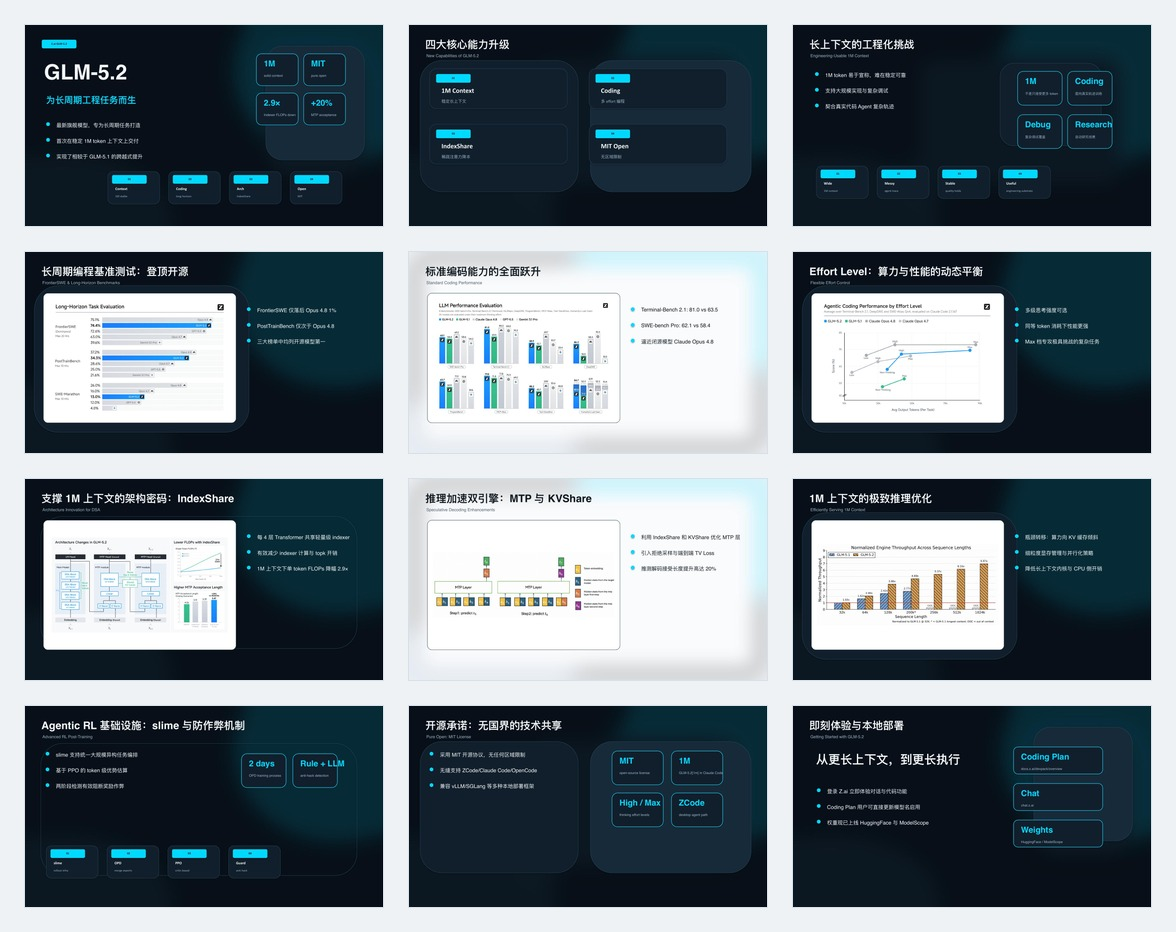
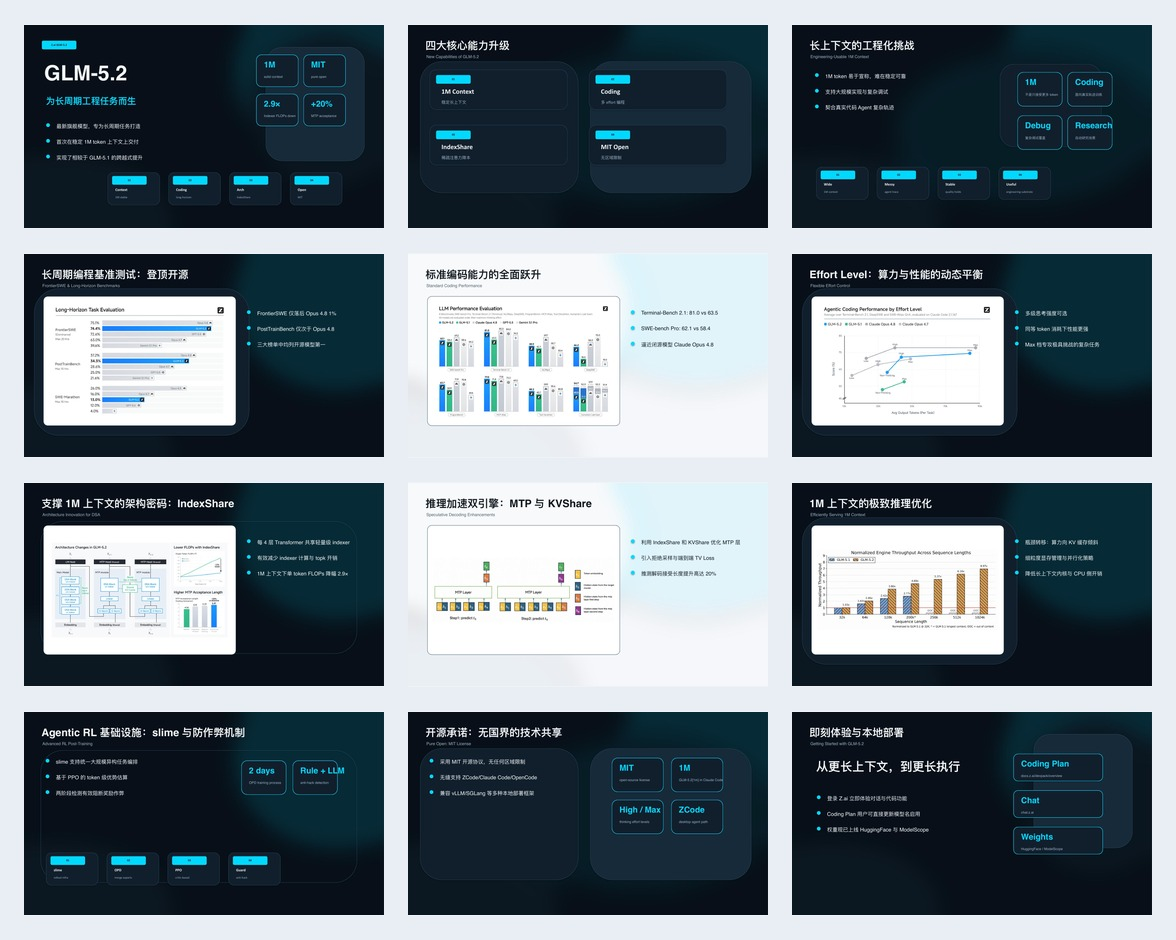
Keep generated backgrounds atmosphere-only

diff --git a/scripts/background_prompt_pack.py b/scripts/background_prompt_pack.py
@@ -1,5 +1,5 @@
 #!/usr/bin/env python3
-"""Create a 3-5 item background-image prompt pack for qiaomu-ppt decks."""
+"""Create a 3-5 item atmosphere-only background prompt pack."""
 
 from __future__ import annotations
 
@@ -10,11 +10,42 @@ from pathlib import Path
 
 
 ROLES = [
-    ("cover", "quiet opening background with a strong but calm focal depth"),
-    ("evidence_dark", "dark evidence background with a calm chart-safe area"),
-    ("evidence_light", "light paper-like evidence background with generous white space"),
-    ("diagram", "neutral diagram background with depth but no grid or decorative lines"),
-    ("closing", "quiet closing background with subtle momentum and no extra objects"),
+    ("cover_atmosphere", "quiet opening atmosphere with soft depth and no layout objects"),
+    ("dark_gradient", "dark atmospheric color wash for evidence slides"),
+    ("light_gradient", "light paper-like color wash for dense readable slides"),
+    ("abstract_texture", "neutral abstract texture with subtle material depth"),
+    ("closing_atmosphere", "quiet closing atmosphere with subtle momentum"),
+]
+
+NEGATIVE_CONSTRAINTS = [
+    "text",
+    "letters",
+    "numbers",
+    "logo",
+    "icon",
+    "UI chrome",
+    "button",
+    "chart",
+    "table",
+    "diagram",
+    "screenshot",
+    "mockup",
+    "box",
+    "rectangle",
+    "square",
+    "card",
+    "panel",
+    "frame",
+    "window",
+    "container",
+    "placeholder",
+    "layout scaffolding",
+    "image slot",
+    "content block",
+    "decorative linework",
+    "ornamental grid",
+    "neon rail",
+    "multiple accent colors",
 ]
 
 
@@ -22,10 +53,12 @@ def build_prompt(subject: str, route: str, role: str, role_goal: str, accent: st
     return (
         f"Create a quiet 16:9 presentation background for a {route} deck about {subject}. "
         f"Role: {role} - {role_goal}. "
-        f"Use a neutral base, readable quiet space for slide content, and one restrained {accent} accent only. "
-        "No text, no logos, no icons, no UI controls, no charts, no fake screenshots, no decorative stripes, "
-        "no ornamental grids, no thin tech lines, no neon rails. "
-        "The background must support foreground typography and source images without competing."
+        f"Use only atmosphere: color fields, soft gradients, diffuse glow, subtle grain, and restrained abstract decoration. "
+        f"Use a neutral base and one restrained {accent} accent only. "
+        "Do not create slide structure. No boxes, rectangles, cards, panels, frames, windows, placeholders, "
+        "chart areas, image slots, UI containers, text blocks, labels, diagrams, mockups, screenshots, logos, or icons. "
+        "Foreground titles, cards, charts, frames, and all page elements will be added later as editable objects. "
+        "The background must stay behind the layout and never imply a non-editable content container."
     )
 
 
@@ -39,14 +72,7 @@ def create_pack(subject: str, route: str, accent: str, count: int) -> dict:
                 "size": "16:9",
                 "recommended_pixels": "1920x1080",
                 "prompt": build_prompt(subject, route, role, role_goal, accent),
-                "negative_constraints": [
-                    "text",
-                    "logo",
-                    "UI chrome",
-                    "chart",
-                    "decorative linework",
-                    "multiple accent colors",
-                ],
+                "negative_constraints": NEGATIVE_CONSTRAINTS,
             }
         )
     return {
@@ -61,8 +87,8 @@ def create_pack(subject: str, route: str, accent: str, count: int) -> dict:
             "accent": accent,
         },
         "prompts": prompts,
-        "use_policy": "Generate these with Codex image generation when available; save outputs under assets/backgrounds/ and record paths in visual_contract.json.",
-        "fallback_policy": "If image generation is unavailable, use neutral solid surfaces only; do not replace with decorative lines or grids.",
+        "use_policy": "Generate these with Codex image generation when available; save outputs under assets/backgrounds/ and record paths in visual_contract.json. These images are atmosphere-only; all slide elements remain editable foreground objects.",
+        "fallback_policy": "If image generation is unavailable, use neutral solid/gradient surfaces only; do not replace with boxes, panels, decorative lines, grids, or fake layout containers.",
     }
 
 

diff --git a/scripts/check_project.py b/scripts/check_project.py
@@ -45,6 +45,17 @@ VISUAL_BACKGROUND_ROLES_MIN = 4
 VISUAL_BACKGROUND_MAX_REPEAT = 2
 ALLOWED_VISUAL_NOISE_BUDGETS = {"quiet", "moderate", "expressive"}
 DEFAULT_MAX_ACTIVE_COLORS = 3
+REQUIRED_BACKGROUND_FORBIDDEN_OBJECTS = {
+    "box",
+    "card",
+    "panel",
+    "frame",
+    "placeholder",
+    "chart area",
+    "image slot",
+    "ui chrome",
+    "text block",
+}
 IMAGE_SLOT_FIELDS = [
     "slot_id",
     "slide_no",
@@ -307,6 +318,32 @@ def check_visual_contract(path: Path, slide_count: int) -> tuple[list[str], list
             failures.append(
                 "background_asset_policy.decorative_line_policy must forbid non-functional decorative lines"
             )
+        atmosphere_policy = str(background_policy.get("atmosphere_only_policy") or "").lower()
+        editable_policy = str(background_policy.get("editable_foreground_policy") or "").lower()
+        forbidden_objects = background_policy.get("forbidden_generated_objects")
+        evidence["background_atmosphere_only"] = bool(atmosphere_policy)
+        if "atmosphere" not in atmosphere_policy or "only" not in atmosphere_policy:
+            failures.append(
+                "background_asset_policy.atmosphere_only_policy must declare that generated backgrounds are atmosphere-only"
+            )
+        if "editable" not in editable_policy or "foreground" not in editable_policy:
+            failures.append(
+                "background_asset_policy.editable_foreground_policy must declare that layout objects stay editable foreground objects"
+            )
+        if not isinstance(forbidden_objects, list) or not forbidden_objects:
+            failures.append("background_asset_policy.forbidden_generated_objects must list forbidden baked-in layout objects")
+        else:
+            normalized_forbidden = {
+                str(item).strip().lower()
+                for item in forbidden_objects
+                if str(item).strip()
+            }
+            missing_forbidden = sorted(REQUIRED_BACKGROUND_FORBIDDEN_OBJECTS - normalized_forbidden)
+            if missing_forbidden:
+                failures.append(
+                    "background_asset_policy.forbidden_generated_objects missing: "
+                    + ", ".join(missing_forbidden)
+                )
 
     roles = contract.get("background_roles")
     if not isinstance(roles, list) or len(roles) < VISUAL_BACKGROUND_ROLES_MIN:

diff --git a/references/ppt-visual-failure-patterns.md b/references/ppt-visual-failure-patterns.md
@@ -96,6 +96,29 @@ Fix:
 
 ## 5. Fake Rounded Image Frame
 
+## 5. Baked-In Background Layout Objects
+
+Symptom:
+
+- Generated background images contain boxes, rectangles, card panels, frames, windows, placeholders, chart areas, or text-block zones.
+- The slide looks structured, but those structures are trapped inside a bitmap and cannot be edited in PowerPoint.
+- Foreground titles, charts, or cards have to fight a pre-baked container drawn by the background.
+
+Root cause:
+
+- The prompt asked for "chart-safe area", "card area", "dashboard background", or "evidence background" without forbidding actual UI/layout objects.
+- The generator tried to solve page composition inside the background image.
+- Background design and editable foreground layout were not separated.
+
+Fix:
+
+- Prompt backgrounds as atmosphere only: color fields, gradients, soft glow, subtle grain, abstract texture.
+- Explicitly forbid boxes, rectangles, cards, panels, frames, placeholders, chart areas, image slots, UI chrome, text blocks, diagrams, and screenshots.
+- Add cards, chart frames, labels, source images, and diagram structures later as editable PPT/HTML foreground objects.
+- Record `background_asset_policy.atmosphere_only_policy` and `editable_foreground_policy` in `visual_contract.json`.
+
+## 6. Fake Rounded Image Frame
+
 Symptom:
 
 - A rounded rectangle is drawn behind an image, but the image itself is rectangular and spills beyond the intended card.
@@ -124,7 +147,7 @@ Fix:
   - Use a native PowerPoint picture crop / placeholder route.
 - Never place a rectangular image over a rounded rectangle and call it clipped.
 
-## 6. Evidence Chart Legibility Drift
+## 7. Evidence Chart Legibility Drift
 
 Symptom:
 
@@ -139,7 +162,7 @@ Fix:
   - `chart_then_takeaway`: first slide shows full chart, next slide extracts 2-3 callouts.
 - Do not shrink a dense benchmark chart below the size where labels are readable in the rendered preview.
 
-## 7. Visible Internal Provenance Footer
+## 8. Visible Internal Provenance Footer
 
 Symptom:
 
@@ -159,13 +182,14 @@ Fix:
 - Use visible citations only when the route needs them, such as academic/report decks, and keep them content-level, not toolchain-level.
 - Never print `fetched via`, `generated with`, model/provider names, or internal speaker cues on every slide unless the user explicitly asks.
 
-## 8. Required Visual QA
+## 9. Required Visual QA
 
 Before calling a deck complete:
 
 - Render the PPTX to PDF/images or open it in PowerPoint/Keynote and screenshot thumbnails.
 - Inspect the thumbnail grid for repeated backgrounds, samey layouts, blank slides, and visual fatigue.
 - Inspect every slide for color budget drift: max three active non-image colors, one accent.
+- Inspect generated backgrounds for baked-in layout objects. Regenerate backgrounds that include boxes, panels, cards, frames, placeholders, or chart/image slots.
 - Inspect every slide for decorative linework. Remove lines that are not axes, table rules, connectors, separators, or real frames.
 - Inspect every chart/image slide for image overflow beyond the declared slot.
 - Inspect visible slide text for internal provenance or speaker-cue leakage.

diff --git a/references/visual-systems.md b/references/visual-systems.md
@@ -140,7 +140,8 @@ The default visual taste for `qiaomu-ppt` is calm, not loud. The deck should fee
 Rules:
 
 - Default `visual_noise_budget` is `quiet`.
-- Use generated bitmap backgrounds when the environment supports it; otherwise use large quiet surfaces and paper bands.
+- Use generated bitmap backgrounds when the environment supports it; otherwise use large quiet surfaces and paper bands. Generated backgrounds are atmosphere only: color, gradient, light, grain, and abstract texture.
+- Generated backgrounds must not include boxes, rectangles, panels, cards, frames, placeholders, chart areas, image slots, windows, UI chrome, or text blocks. Those are editable foreground objects.
 - Do not use ornamental grids, random thin rules, tech lines, side rails, or abstract stripes as decoration. Lines are allowed only as chart axes, table rules, connectors, or true content structure.
 - Use one accent system per slide. Do not combine neon wedges, rails, glows, multiple card stacks, and saturated dots on the same page.
 - Enforce a max-three active color budget per slide: neutral base, readable text, and one accent. Source images/charts are exempt, but surrounding UI must become quieter when a source image is colorful.
@@ -153,13 +154,24 @@ Preferred background families:
 
 | Family | Use | Treatment |
 |---|---|---|
-| `generated_cover` | cover, chapter open, closing | full-slide text-free generated bitmap, quiet focal depth |
-| `generated_evidence` | technical proof, source charts | generated bitmap with calm chart-safe area |
+| `generated_cover` | cover, chapter open, closing | full-slide text-free atmosphere bitmap, quiet focal depth |
+| `generated_evidence` | technical proof, source charts | atmosphere bitmap only; chart frames and cards stay editable foreground objects |
 | `quiet_dark` | technical proof, product narrative | near-black/navy ground, no decorative lines |
 | `quiet_light` | dense charts, courseware, reports | off-white/paper surface, no ornamental rules |
 | `editorial_band` | chapter open, argument transition | wide neutral band with one restrained accent edge |
 | `split_surface` | compare, problem/solution | calm 50/50 or 60/40 surfaces without heavy shadows |
 | `focus_canvas` | diagram/process | clean frame or generated surface, diagram owns attention |
+
+Generated background prompt boundaries:
+
+```json
+{
+  "atmosphere_only": true,
+  "allowed": ["color fields", "soft gradients", "diffuse glow", "subtle grain", "abstract texture"],
+  "forbidden": ["boxes", "cards", "panels", "frames", "placeholders", "chart areas", "image slots", "UI chrome", "text blocks"],
+  "editable_foreground_policy": "titles, cards, charts, frames, diagrams, and labels are added later as editable objects"
+}
+```
 
 ## Color Budget
 

diff --git a/references/codex-image-backgrounds.md b/references/codex-image-backgrounds.md
@@ -4,7 +4,7 @@ Use this when the runtime has an image generation tool, especially Codex with bu
 
 ## Goal
 
-Generate 3-5 quiet bitmap backgrounds for the whole deck before slide rendering. These backgrounds replace shape-based decorative backgrounds. They are not hero illustrations, posters, or UI chrome.
+Generate 3-5 quiet bitmap backgrounds for the whole deck before slide rendering. These backgrounds replace shape-based decorative backgrounds, but they must remain atmosphere only. They are not hero illustrations, posters, UI chrome, layout scaffolds, chart containers, cards, or frames.
 
 ## When To Use
 
@@ -26,7 +26,7 @@ assets/backgrounds/
   background_prompts.json
 ```
 
-Each background should be 16:9, preferably 1920x1080 or larger, with no text, no logos, no charts, no UI controls, no fake screenshot, and no hard ornamental lines.
+Each background should be 16:9, preferably 1920x1080 or larger. It may contain color fields, gradients, soft light, subtle grain, atmospheric texture, and restrained abstract decoration. It must not contain text, logos, charts, UI controls, fake screenshots, boxes, panels, cards, frames, windows, placeholders, chart areas, image slots, text blocks, or hard ornamental lines.
 
 ## Prompt Rules
 
@@ -36,21 +36,23 @@ Prompts should specify:
 - route, such as brand launch, technical evidence, courseware
 - background role
 - color budget: neutral base plus one accent only
-- quiet area for text and charts
-- no text, no icons, no UI, no logos, no decorative stripes, no glowing rails
+- atmosphere-only treatment: color, gradient, light, grain, and abstract texture
+- no text, no icons, no UI, no logos, no boxes, no rectangles, no cards, no panels, no frames, no placeholders, no chart areas, no image slots, no decorative stripes, no glowing rails
 
 Example:
 
 ```text
 Create a quiet 16:9 presentation background for a technical evidence slide about long-horizon AI coding.
-Near-black graphite surface, soft depth, subtle material grain, one cyan accent glow kept below 8% of the frame,
-large calm center-left area for a chart card, no text, no logo, no UI, no lines, no grids, no neon rails.
+Near-black graphite color field, soft gradient depth, subtle material grain, one cyan accent glow kept below 8% of the frame.
+Atmosphere only: no text, logo, UI, chart, image slot, card, panel, rectangle, frame, window, placeholder, grid, or neon rail.
+All titles, cards, charts, frames, and layout objects will be added later as editable foreground elements.
 ```
 
 ## Use Rules
 
 - Put the bitmap as the full-slide background.
 - Add a soft scrim only when needed for text contrast.
+- Do not use the bitmap to solve layout. Every card, evidence frame, title, label, chart slot, and diagram must be an editable foreground object.
 - Do not add extra decorative lines, grids, wedges, or rails on top of the generated background.
 - Use the same 3-5 backgrounds as a rhythm across the deck; do not generate one unrelated image per slide.
 - If a source chart/image is colorful, make the generated background quieter and keep non-image UI neutral.
@@ -61,5 +63,5 @@ If image generation is unavailable:
 
 - Use clean solid or subtly tonal surfaces.
 - Keep at most one accent.
-- Do not emulate generated backgrounds with decorative stripes, grids, glows, or random geometry.
+- Do not emulate generated backgrounds with baked-in boxes, cards, panels, frames, decorative stripes, grids, or random geometry.
 - Record this in `visual_contract.json` as `background_asset_policy.generated_backgrounds: "unavailable"`.

diff --git a/README.md b/README.md
@@ -17,7 +17,7 @@
 - 内容先赢：用受众状态变化、claim title、证据策略和 speaker notes 组织材料，避免“资料搬运式 PPT”。
 - 单页三色预算：默认每页只允许“中性底 + 可读文字 + 一个强调色”，源图片/图表色彩不计入周边 UI。
 - 背景降噪：默认 `visual_noise_budget: quiet`，限制大色块、霓虹边栏、复杂装饰、无意义线条和图表背后噪声。
-- Codex 生图背景：在有内置生图能力时，先生成 3-5 张安静的 16:9 背景图作为背景系统，替代传统线条/色块装饰。
+- Codex 生图背景：在有内置生图能力时，先生成 3-5 张安静的 16:9 氛围背景图；背景只负责颜色、渐变、光感、纹理和抽象装饰，不生成方框、卡片、面板、文字或图表占位。
 - 图片不出框：所有图片/图表都要有 image slot、fit、mask、padding 和 `overflow_policy: clip_or_fail`。
 - 风格自动推荐：内置 74 个从 `awesome-design-md` 抽象出的 PPT 风格预设，可按场景推荐。
 - 开源自包含：声明 Python 包、PDF/PPTX 转换工具、CJK 字体和降级策略，不依赖原始 upstream skill 运行。
@@ -125,6 +125,12 @@ python3 scripts/check_project.py <project_dir>
     "max_active_colors_per_slide": 3,
     "accent_policy": "one accent per slide"
   },
+  "background_asset_policy": {
+    "mode": "bitmap_background_pack",
+    "atmosphere_only_policy": "generated backgrounds are atmosphere-only",
+    "editable_foreground_policy": "cards, charts, frames, labels, and page structure stay editable foreground objects",
+    "forbidden_generated_objects": ["box", "card", "panel", "frame", "placeholder", "chart area", "image slot", "ui chrome", "text block"]
+  },
   "background_roles": ["hero_dark", "evidence_light", "split_panel", "diagram_focus"],
   "max_consecutive_background_role": 2
 }
@@ -140,6 +146,8 @@ python3 scripts/background_prompt_pack.py \
   --count 5 \
   --output demo/assets/backgrounds/background_prompts.json
 ```
+
+背景 prompt 的边界：只生成 atmosphere-only bitmap。标题、卡片、图表框、图片槽位、说明文字和所有页面结构，都必须在 PPT/HTML 层作为可编辑对象生成。
 
 ## URL / PDF 能力
 
@@ -200,6 +208,7 @@ python3 scripts/check_project.py /path/to/generated-project
 ## Troubleshooting
 
 - 背景太花：检查 `visual_contract.json` 是否声明 `visual_noise_budget: quiet`，并删除大色块、霓虹边栏、多套装饰系统和无意义线条。
+- 背景图里出现方框/卡片/占位区：这是背景 prompt 错误。重新生成 atmosphere-only 背景，所有框、卡片、图表槽位和文字都应作为可编辑前景对象加入。
 - 配色太乱：检查 `color_budget.max_active_colors_per_slide` 是否大于 3，检查每页是否只有一个强调色。
 - 版式单调：给长 deck 至少 4 种背景/布局角色，缩略图网格里不应该像同一页换文字。
 - 图片出框：检查 image slot，不要只放圆角底框；图片本身要真实裁切、mask 或预合成。

diff --git a/SKILL.md b/SKILL.md
@@ -1,8 +1,8 @@
 ---
 name: qiaomu-ppt
 description: |
-  Independent Qiaomu PPT production skill for creating Chinese-first PPT, PowerPoint, PPTX, presentation, slide deck, brand launch deck, teaching courseware, URL-to-PPT, and speaker-ready decks. It routes requests, fetches URLs/PDFs/images into Markdown sources when needed, builds an audience or learning-state plan, chooses persuasive structure frameworks, improves content and copy through claim-title outlines, recommends a suitable design style from a local PPT style library when needed, locks a calm Qiaomu visual system, enforces a per-slide max-three active color budget, prefers generated bitmap background packs in Codex image-generation environments, rejects meaningless decorative lines, enforces visual-noise budget and image-slot containment, produces fixed-stage HTML previews or PPTX-oriented SVG artifacts, runs local artifact checks, and prefers editable PPTX delivery when an exporter is available. Use when the user asks to 做PPT, 生成PPT, URL做PPT, 根据链接做PPT, 优化PPT文案, 改PPT内容, 制作课件, 品牌发布PPT, 发布会deck, 演讲slides, PowerPoint, PPTX, 自动推荐PPT风格, or wants a Qiaomu workflow that combines practical editability, stronger content, aesthetics, speaker notes, and verification without relying on upstream skills at runtime.
-version: 0.5.1
+  Independent Qiaomu PPT production skill for creating Chinese-first PPT, PowerPoint, PPTX, presentation, slide deck, brand launch deck, teaching courseware, URL-to-PPT, and speaker-ready decks. It routes requests, fetches URLs/PDFs/images into Markdown sources when needed, builds an audience or learning-state plan, chooses persuasive structure frameworks, improves content and copy through claim-title outlines, recommends a suitable design style from a local PPT style library when needed, locks a calm Qiaomu visual system, enforces a per-slide max-three active color budget, prefers atmosphere-only generated bitmap background packs in Codex image-generation environments, rejects baked-in background layout objects and meaningless decorative lines, enforces visual-noise budget and image-slot containment, produces fixed-stage HTML previews or PPTX-oriented SVG artifacts, runs local artifact checks, and prefers editable PPTX delivery when an exporter is available. Use when the user asks to 做PPT, 生成PPT, URL做PPT, 根据链接做PPT, 优化PPT文案, 改PPT内容, 制作课件, 品牌发布PPT, 发布会deck, 演讲slides, PowerPoint, PPTX, 自动推荐PPT风格, or wants a Qiaomu workflow that combines practical editability, stronger content, aesthetics, speaker notes, and verification without relying on upstream skills at runtime.
+version: 0.5.2
 owner: 向阳乔木
 ---
 
@@ -60,7 +60,7 @@ Read [references/independent-method.md](references/independent-method.md), [refe
    - Define a `background_rhythm` with 4-6 roles for decks longer than 8 slides; no decorative background role may repeat more than 2 consecutive slides.
    - Define a `visual_noise_budget`: default `quiet`. Backgrounds should support the content, not compete with it. Avoid large saturated wedges, repeated neon rails, busy cards, ornamental grids, and decorative lines behind evidence.
    - Run `python3 <skill>/scripts/background_prompt_pack.py --subject "<deck subject>" --route "<route>" --count 5 --output <project>/assets/backgrounds/background_prompts.json` when image generation may be used.
-   - In Codex environments where the built-in image generation tool is available, use the prompt pack to generate 3-5 quiet 16:9 text-free background bitmap assets before rendering. Use those as the background system instead of shape-based decoration. If image generation is unavailable, use neutral surfaces only; do not fake richness with decorative lines.
+   - In Codex environments where the built-in image generation tool is available, use the prompt pack to generate 3-5 quiet 16:9 text-free, atmosphere-only background bitmap assets before rendering. Background images may contain color fields, gradients, soft light, subtle grain, and abstract decoration, but must not contain boxes, panels, frames, cards, placeholders, chart areas, image slots, UI chrome, or text. Titles, cards, charts, frames, and all page elements must be added later as editable foreground objects. If image generation is unavailable, use neutral surfaces only; do not fake richness with decorative lines or baked-in layout containers.
    - Define an `image_slot_contract`: every image/chart has a declared slot, fit mode, mask/crop method, padding, and `overflow_policy: clip_or_fail`.
    - Define `visible_provenance_policy`: default to no visible internal source/toolchain footer. Keep sources, fetch method, model name, QA evidence, and speaker cues in `qa_report.md`, speaker notes, or an optional final references page unless the user explicitly asks for visible citations.
    - For brand decks, generate or request 2-3 visual directions before full production when the brief is open-ended.
@@ -75,7 +75,8 @@ Read [references/independent-method.md](references/independent-method.md), [refe
    - Thumbnail-scan the whole deck for background monotony and repeated layouts. If the deck reads as one repeated page, revise the background/layout roles before export.
    - Thumbnail-scan for visual noise. If backgrounds feel harder to read than the content, simplify surfaces before export.
    - Thumbnail-scan for color noise. If any slide reads as more than three active colors excluding source images, reduce to neutral base + text + one accent before export.
-   - Reject decorative background lines unless they are functional chart axes, table rules, connectors, or part of a generated bitmap background. Lines that only add "tech feel" are defects.
+   - Reject background images that bake in slide structure. If the background contains rectangles, card panels, frames, chart placeholders, windows, text blocks, or UI containers, regenerate it. Editable PPT/HTML foreground objects own layout.
+   - Reject decorative background lines unless they are functional chart axes, table rules, connectors, or intentionally editable foreground separators. Lines that only add "tech feel" are defects.
    - Inspect every source-image/chart slide for fake rounded frames: a frame behind an image is not clipping. Use real crop/mask/compositing or a rectangular frame.
    - Inspect visible slide text for internal metadata such as `fetched via`, `generated with`, `qiaomu-markdown-proxy`, and `Speaker cue:`. These are QA artifacts, not presentation content.
    - Run `python3 <skill>/scripts/check_project.py <project_dir>` when a project folder has been produced.

diff --git a/references/production-contract.md b/references/production-contract.md
@@ -177,7 +177,7 @@ Required fields:
 - `visual_noise_budget`: normally `quiet`; use `moderate` only when justified by brand or route.
 - `color_budget`: `max_active_colors_per_slide: 3`, `count_source_images: false`, and a one-accent policy.
 - `slide_palette_slots`: per-slide mapping of `slide_no` and `active_colors`; each slide must stay within the color budget.
-- `background_asset_policy`: whether generated bitmap backgrounds were used, unavailable, or forbidden by the user.
+- `background_asset_policy`: whether generated bitmap backgrounds were used, unavailable, or forbidden by the user. It must also declare `atmosphere_only_policy`, `editable_foreground_policy`, and `forbidden_generated_objects`.
 - `image_slots`: every source image/chart slot with `slot_id`, `slide_no`, `x`, `y`, `w`, `h`, `fit`, `mask`, `padding`, and `overflow_policy`.
 - `max_consecutive_background_role`: normally `2`.
 - `thumbnail_review_required`: `true` for PPTX decks.
@@ -187,6 +187,8 @@ Hard rules:
 - No repeated decorative background role for more than 2 consecutive slides.
 - Background decoration must stay subordinate to content. Avoid repeated hard rails, oversized saturated wedges, ornamental grids, meaningless thin rules, and multiple decorative systems on the same slide.
 - Prefer generated 16:9 bitmap background packs in Codex image-generation environments. If unavailable, use clean neutral surfaces instead of line-based decoration.
+- Generated backgrounds must be atmosphere only: colors, gradients, soft light, subtle grain, and abstract texture. Do not bake boxes, cards, panels, frames, placeholders, chart areas, image slots, UI chrome, text blocks, or other layout scaffolding into the bitmap.
+- Titles, cards, charts, frames, diagrams, labels, and evidence slots must be editable foreground objects in PPT/HTML.
 - No slide should use more than 3 active non-image colors. Do not combine cyan, green, yellow, red, and other accent colors on one page.
 - Dense charts use `contain` unless a crop is explicitly justified.
 - A rounded frame is not a clipping mask; if `mask` is `rounded_rect`, the renderer must actually clip or pre-compose the image.

diff --git a/references/quality-gates.md b/references/quality-gates.md
@@ -36,6 +36,7 @@
 - Decks longer than 8 slides declare `visual_noise_budget`, normally `quiet`.
 - Decks longer than 8 slides declare `color_budget` with `max_active_colors_per_slide <= 3`, and each slide declares `active_colors`.
 - When Codex image generation is available, decks declare a 3-5 item generated background bitmap pack; if unavailable, the fallback must be neutral surfaces, not decorative linework.
+- Generated backgrounds are atmosphere only. They must not contain boxes, rectangles, panels, cards, frames, placeholders, chart areas, image slots, UI chrome, or text blocks; these must remain editable foreground objects.
 - The thumbnail grid shows visible variation in background tone, dominant object placement, and slide density.
 - Backgrounds are calmer than the content: no repeated hard side stripes, oversized saturated wedges, stacked decorative motifs, meaningless tech lines, ornamental grids, or noisy chart backdrops unless explicitly brand-required.
 - Lines are functional only: chart axes, table rules, connectors, or content separators. Lines that exist only to add texture or "tech feel" fail the visual gate.